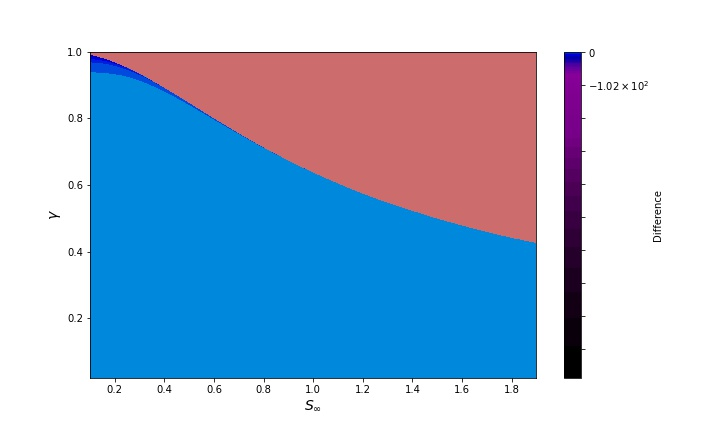
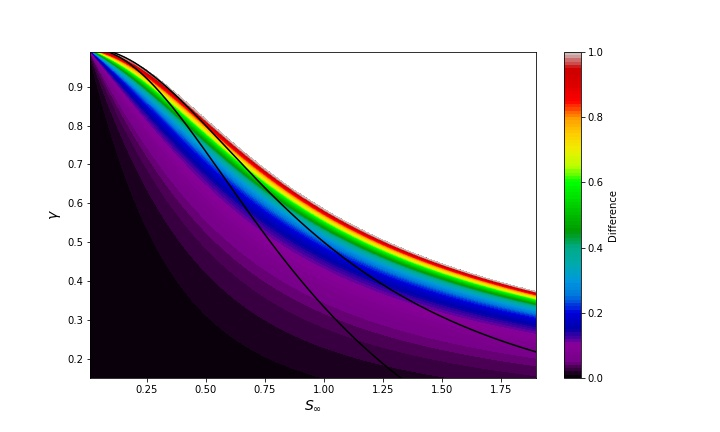
Rerun

diff --git a/stability_analysis_full_run_small_angle.py b/stability_analysis_full_run_small_angle.py
@@ -44,8 +44,8 @@ for S in S_list:
         N2 = S2*f**2/theta**2
         beta = (1+S2)**(0.5)
         fstar = f*beta
-        gml = (1+(1-1/(0.95))*S2)/(1+S2)
-        gmu = (1+(1-1/1.05)*S2)/(1+S2)
+        gml = (1+(1+S2)*0.45)/((1-0.45)*(1+S2))
+        gmu = (1+(1+S2)*0.35)/((1-0.35)*(1+S2))
         gm_list = np.linspace(gml,gmu,dgm)
         gms_2.append(gm_list)
         for gm in gm_list:
@@ -85,4 +85,4 @@ output_file = xr.Dataset({"growth_rate":(["slope_burger_number","delta","strat_i
            "strat_values":(["slope_burger_number","delta","strat_index"],gms)},
            coords = {"slope_burger_number":S_list,"delta":delta_list,"strat_index":np.linspace(0,1,dgm)})
 
-output_file.to_netcdf("stability_analysis_gamma_Sinf_higher_res_5_5.nc")
+output_file.to_netcdf("stability_analysis_freq_space_1_5.nc")
